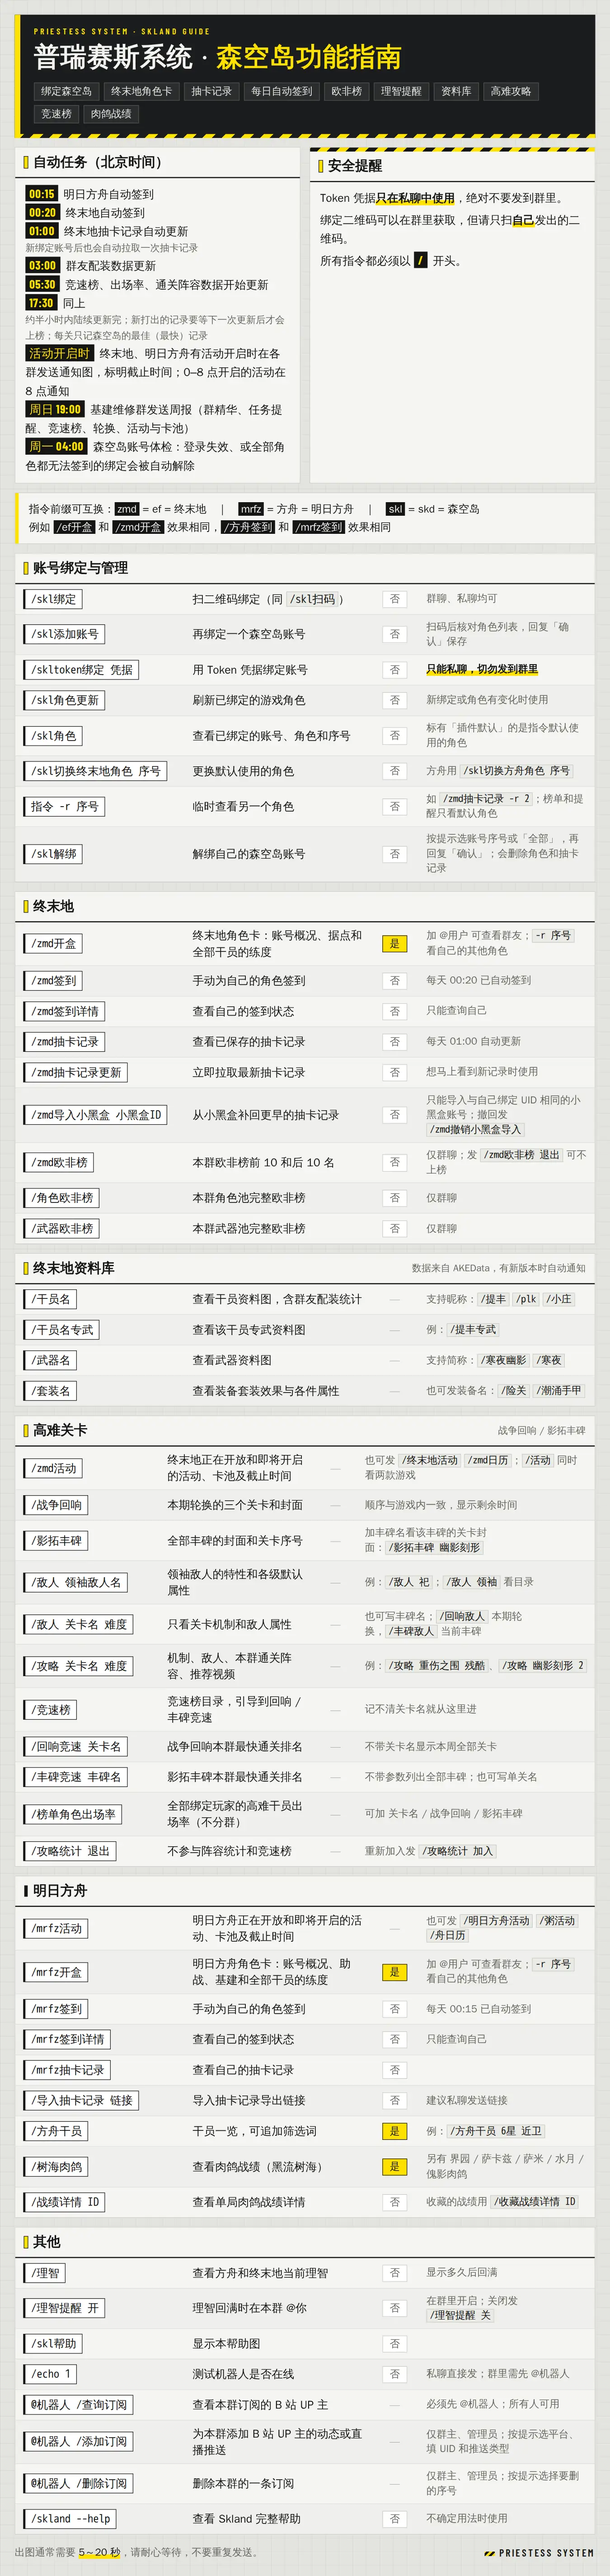
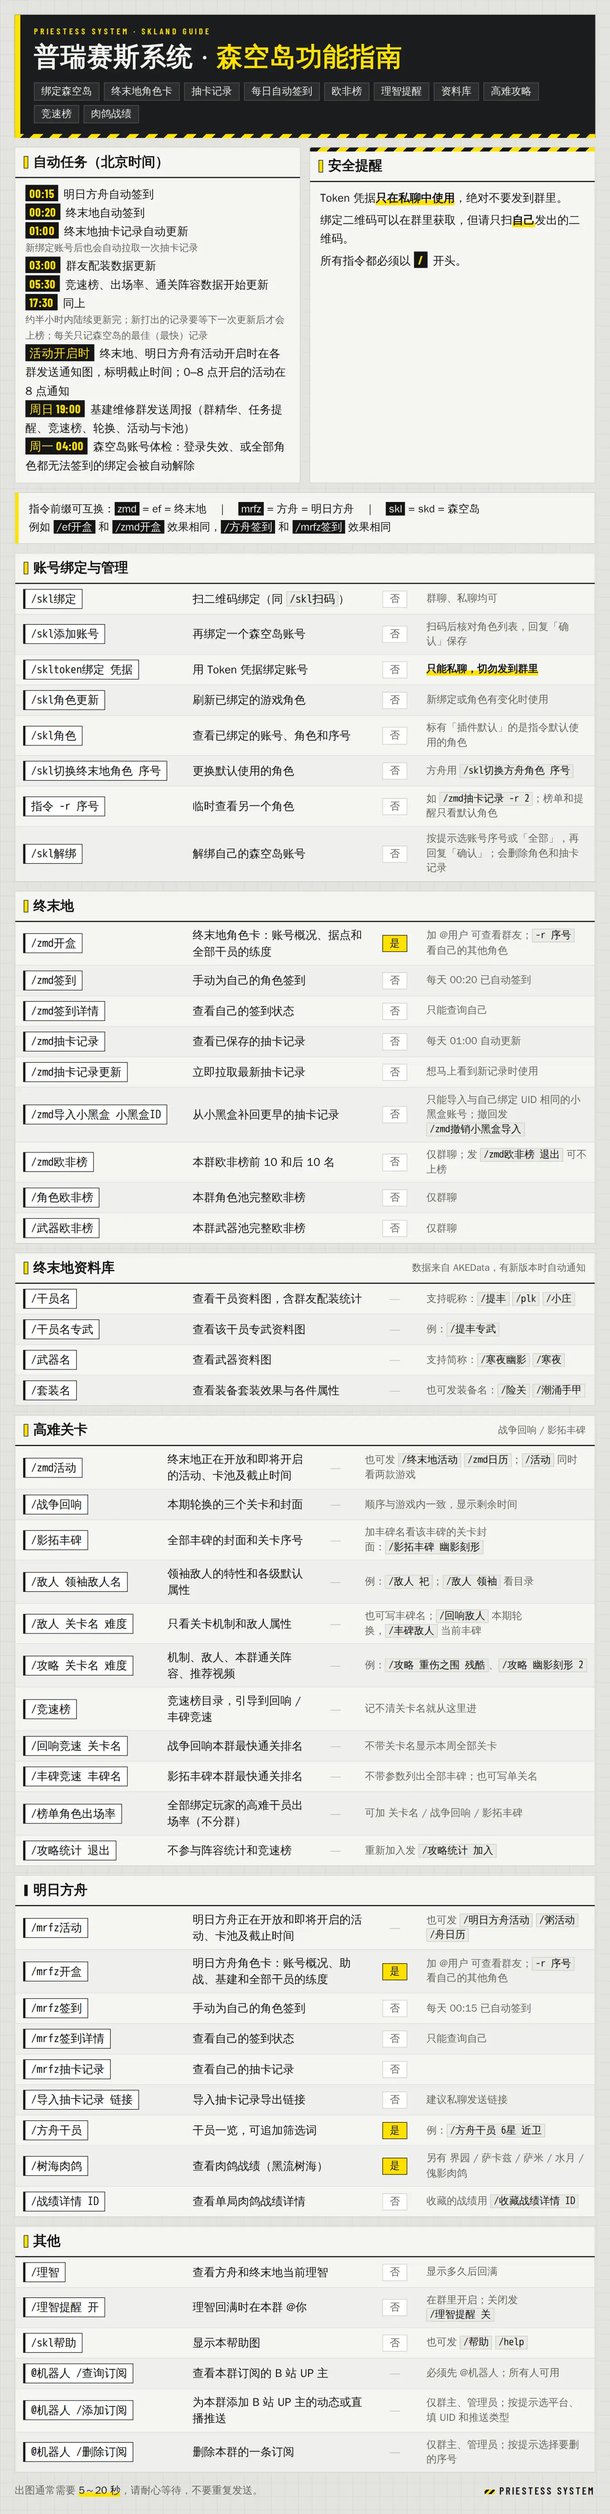
/帮助、/help 也发帮助图；帮助图去掉 /echo 1 和 /skland --help
/skl帮助 新增别名 /帮助、/help，帮助图在该行注明；/echo 1 和 /skland --help 仍可使用，只是不再列在帮助图里。README 指令表同步更新。

Changed region(s): [[0.0311, 0.0, 0.9644, 0.9959], [0.9333, 0.4668, 0.9644, 0.4979], [0.9022, 0.7469, 0.9333, 0.778]]

diff --git a/plugins/skl_help/help.html b/plugins/skl_help/help.html
@@ -219,12 +219,10 @@ td.note { color: var(--ef-sub); font-size: 18px; }
     <table>
       <tr><td class="cmd"><code>/理智</code></td><td class="fn">查看方舟和终末地当前理智</td><td class="at"><span class="no">否</span></td><td class="note">显示多久后回满</td></tr>
       <tr><td class="cmd"><code>/理智提醒 开</code></td><td class="fn">理智回满时在本群 @你</td><td class="at"><span class="no">否</span></td><td class="note">在群里开启；关闭发 <code>/理智提醒 关</code></td></tr>
-      <tr><td class="cmd"><code>/skl帮助</code></td><td class="fn">显示本帮助图</td><td class="at"><span class="no">否</span></td><td class="note"></td></tr>
-      <tr><td class="cmd"><code>/echo 1</code></td><td class="fn">测试机器人是否在线</td><td class="at"><span class="no">否</span></td><td class="note">私聊直接发；群里需先 @机器人</td></tr>
+      <tr><td class="cmd"><code>/skl帮助</code></td><td class="fn">显示本帮助图</td><td class="at"><span class="no">否</span></td><td class="note">也可发 <code>/帮助</code> <code>/help</code></td></tr>
       <tr><td class="cmd"><code>@机器人 /查询订阅</code></td><td class="fn">查看本群订阅的 B 站 UP 主</td><td class="at"><span class="na">—</span></td><td class="note">必须先 @机器人；所有人可用</td></tr>
       <tr><td class="cmd"><code>@机器人 /添加订阅</code></td><td class="fn">为本群添加 B 站 UP 主的动态或直播推送</td><td class="at"><span class="na">—</span></td><td class="note">仅群主、管理员；按提示选平台、填 UID 和推送类型</td></tr>
       <tr><td class="cmd"><code>@机器人 /删除订阅</code></td><td class="fn">删除本群的一条订阅</td><td class="at"><span class="na">—</span></td><td class="note">仅群主、管理员；按提示选择要删的序号</td></tr>
-      <tr><td class="cmd"><code>/skland --help</code></td><td class="fn">查看 Skland 完整帮助</td><td class="at"><span class="no">否</span></td><td class="note">不确定用法时使用</td></tr>
     </table>
   </div>
 

diff --git a/plugins/skl_help/__init__.py b/plugins/skl_help/__init__.py
@@ -17,7 +17,7 @@ from nonebot_plugin_alconna import UniMessage, message_reaction
 __plugin_meta__ = PluginMetadata(
     name="Skland help image",
     description="Replies to /skl帮助 with the bot's command guide image.",
-    usage="/skl帮助",
+    usage="/skl帮助　/帮助　/help",
     type="application",
 )
 
@@ -31,7 +31,7 @@ REACTION_PROCESSING = "66"  # heart
 REACTION_DONE = "144"  # party popper
 REACTION_FAIL = "10060"  # cross mark
 
-skl_help = on_command("skl帮助", aliases={"skd帮助", "森空岛帮助"}, rule=strict, priority=5, block=True)
+skl_help = on_command("skl帮助", aliases={"skd帮助", "森空岛帮助", "帮助", "help"}, rule=strict, priority=5, block=True)
 
 
 async def _react(emoji: str) -> None:
